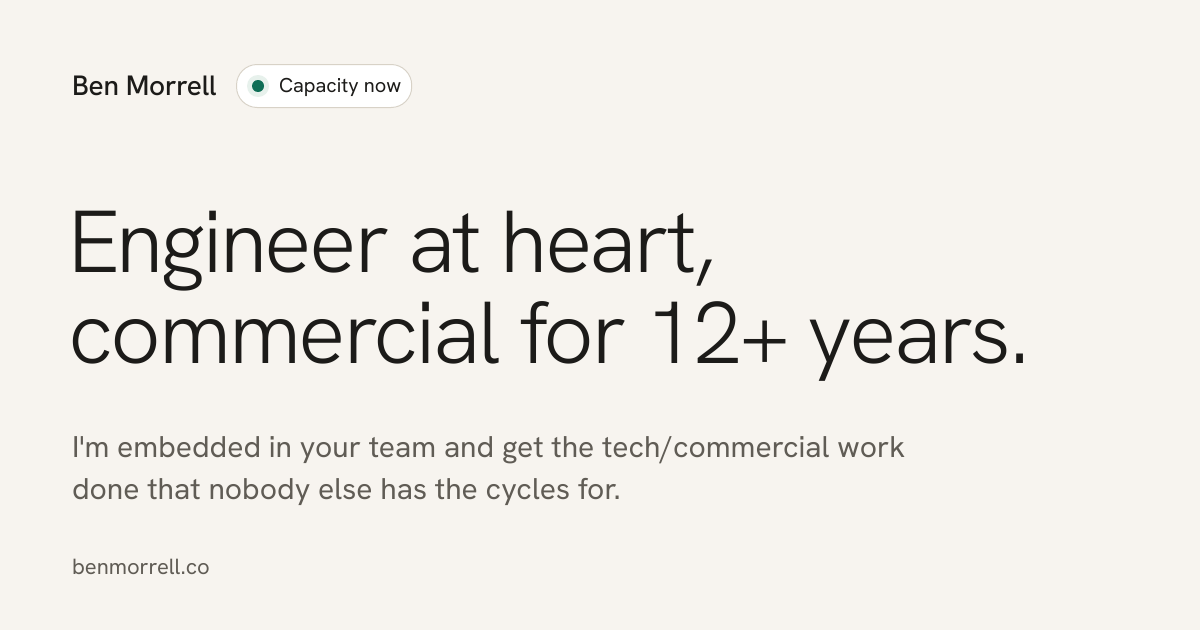
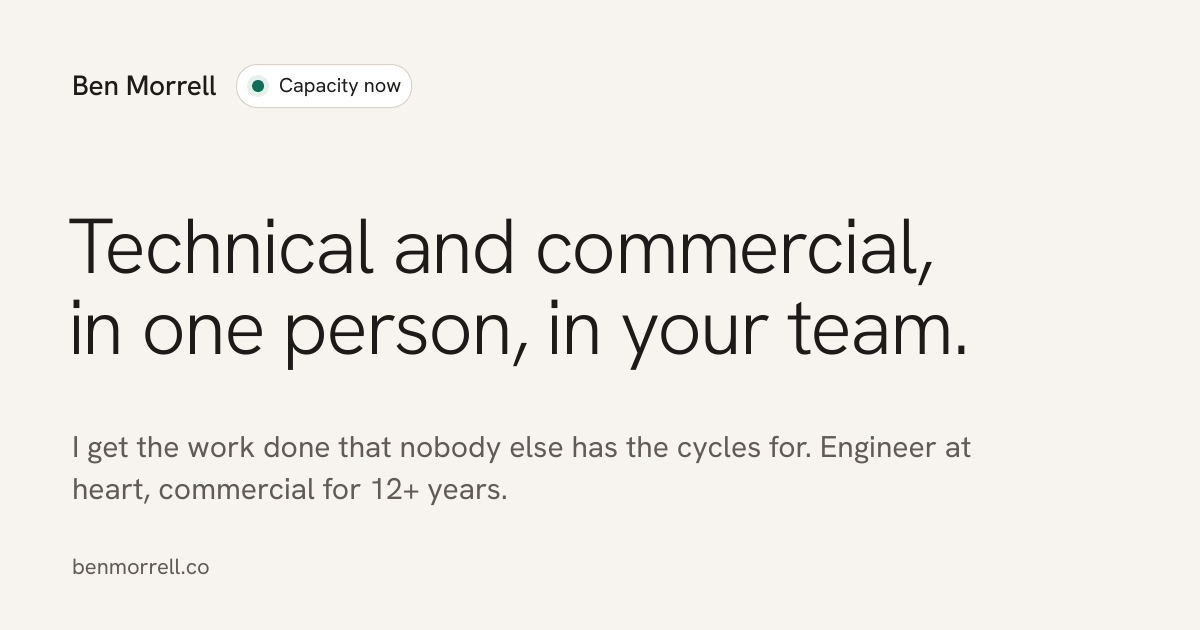
root: new headline - technical and commercial, in one person, in your team

Changed region(s): [[0.0617, 0.3317, 0.8633, 0.6032], [0.0617, 0.6937, 0.8325, 0.8143]]

diff --git a/app/page.tsx b/app/page.tsx
@@ -18,9 +18,9 @@ const hanken = Hanken_Grotesk({
   display: "swap",
 });
 
-const LINE = "Engineer at heart, commercial for 12+ years.";
+const LINE = "Technical and commercial, in one person, in your team.";
 const SUB =
-  "I'm embedded in your team and get the tech/commercial work done that nobody else has the cycles for.";
+  "I get the work done that nobody else has the cycles for. Engineer at heart, commercial for 12+ years.";
 const TITLE = `Ben Morrell - ${LINE}`;
 
 // One string to change when it stops being true. Matches the LinkedIn headline.
@@ -149,10 +149,10 @@ export default function HomePage() {
 
       <section className="bm-wrap bm-hero">
         <div className="bm-hero__text">
-          {/* Same words as LINE. Split so it always breaks after the comma, and
-              "12+ years." never splits. */}
+          {/* Same words as LINE. Split so it always breaks after the first comma, and
+              "in your team." never splits. */}
           <h1 className="bm-display bm-display--hero">
-            <span>Engineer at heart,</span> commercial for <span>12+ years.</span>
+            <span>Technical and commercial,</span> in one person, <span>in your team.</span>
           </h1>
           <p className="bm-lead">{SUB}</p>
           <p className="bm-small bm-muted">

diff --git a/app/home.css b/app/home.css
@@ -112,4 +112,4 @@
 .bm-hero__portrait img{object-fit:cover;object-position:50% 12%}
 .bm-display--hero{text-wrap:wrap}
 .bm-display--hero span{white-space:nowrap}
-.bm-display--hero span:first-child{display:block}
+.bm-display--hero span:first-child{display:block;white-space:normal}
